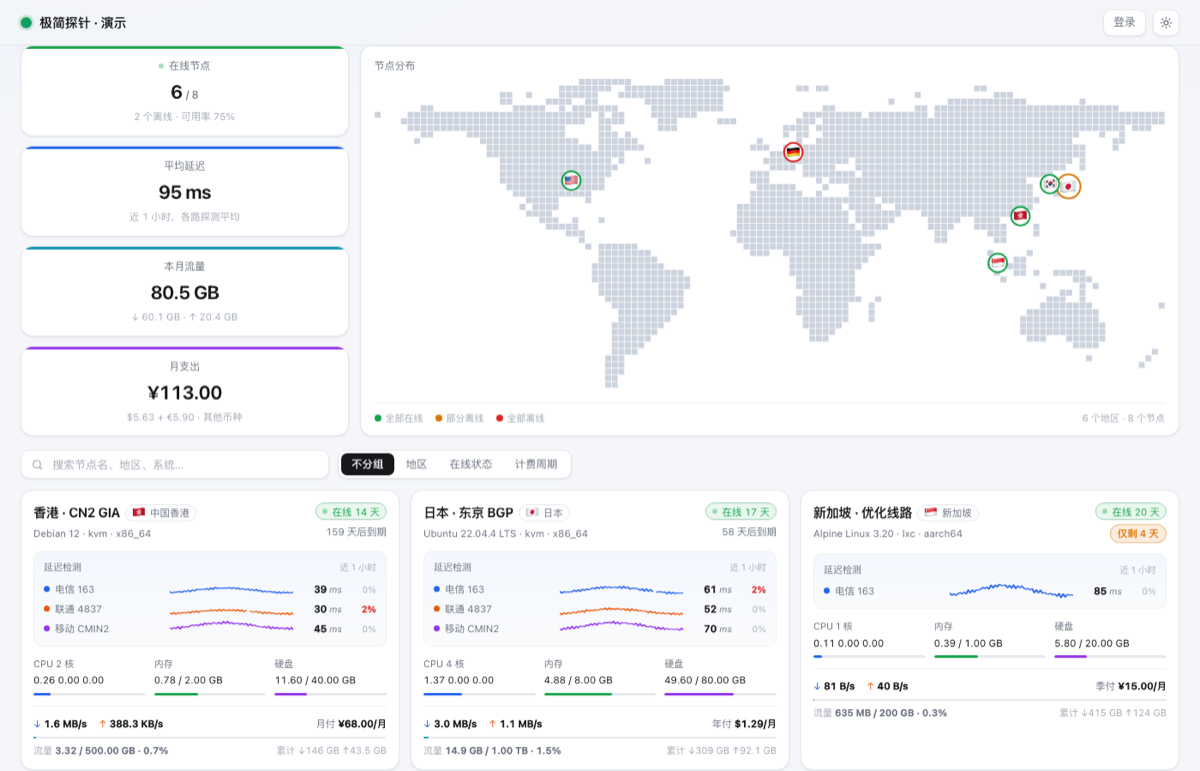
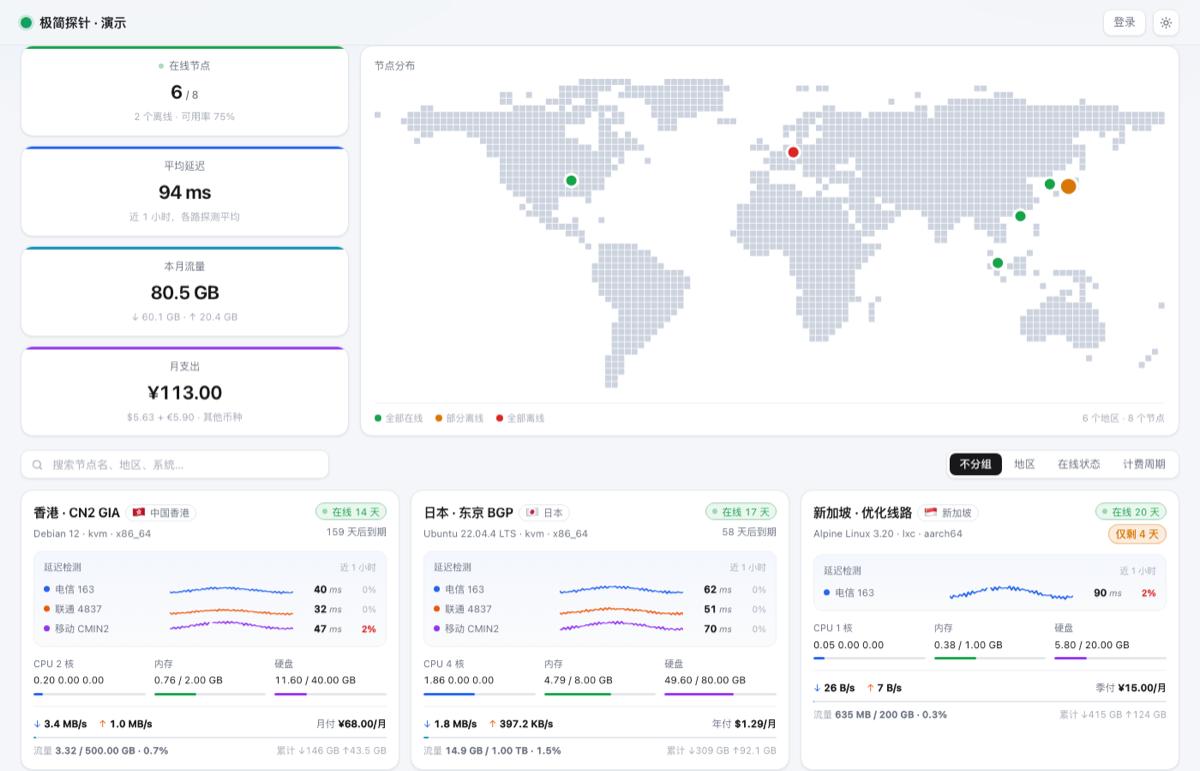
地图亮点改回圆点、去掉筛选提示、工具栏对齐、到期提示分级

diff --git a/minimal/dist/index.html b/minimal/dist/index.html
@@ -109,16 +109,13 @@ main{padding:18px 0 64px}
 .mapwrap{flex:1;display:flex;align-items:center;min-height:150px}
 .worldmap{display:block;width:100%;height:auto;overflow:visible}
 .worldmap .land{fill:var(--map-land)}
-/* 亮点 = 一枚国旗 + 一圈细线；线的颜色表示在线情况，国旗本身不染色，
-   这样「哪国」和「状态」是两条互不相扰的信息。 */
-.mdot{cursor:pointer}
-.mdot .plate{fill:var(--panel);stroke-width:1.6;transition:stroke-width .15s}
-.mdot.t-ok .plate{stroke:var(--ok)}
-.mdot.t-warn .plate{stroke:var(--warn)}
-.mdot.t-bad .plate{stroke:var(--bad)}
-.mdot .flag{text-anchor:middle;dominant-baseline:central;pointer-events:none}
-.mdot:hover .plate,.mdot:focus-visible .plate{stroke-width:3}
-.mdot:focus-visible{outline:none}
+/* 亮点是纯色圆点，颜色即在线情况 */
+.mdot{cursor:pointer;stroke:var(--panel);stroke-width:2.5;transition:stroke-width .15s}
+.mdot.t-ok{fill:var(--ok)}
+.mdot.t-warn{fill:var(--warn)}
+.mdot.t-bad{fill:var(--bad)}
+.mdot:hover,.mdot:focus-visible{stroke-width:4;outline:none}
+.mdot:focus-visible{stroke:var(--fg)}
 .mpop .ph b{display:inline-flex;align-items:center;gap:5px}
 .mapfoot{margin-top:9px;padding-top:9px;border-top:1px solid var(--line-2);font-size:11px;color:var(--faint);
   display:flex;gap:6px 14px;flex-wrap:wrap;align-items:center}
@@ -152,15 +149,18 @@ main{padding:18px 0 64px}
 .search .clr{flex-shrink:0;color:var(--faint);font-size:16px;line-height:1;padding:0 1px}
 .search .clr:hover{color:var(--fg)}
 /* 工具栏里的分组控件与搜索框共用一套：等高、同圆角、同边框与阴影。
-   只作用于 .tools 内部——详情页面板里的 .seg 仍需保持紧凑。 */
-.tools .seg{margin-left:0;flex:0 1 auto;height:34px;padding:3px;border-radius:10px;
+   只作用于 .tools 内部——详情页面板里的 .seg 仍需保持紧凑。
+   margin-left:auto 让分组控件靠右，与左侧搜索框拉开，而不是紧贴其后留一大段空白。 */
+.tools .seg{margin-left:auto;flex:0 1 auto;height:34px;padding:3px;border-radius:10px;
   background:var(--panel);box-shadow:var(--sh-1);flex-wrap:wrap}
 .tools .seg button{font-size:12.5px;padding:0 12px;height:100%;border-radius:7px}
-/* 窄屏下分组控件独占一行、按钮等分，四个按钮不会挤出去。
+/* 窄屏：两者各占一行且**等宽**。搜索框必须去掉 max-width，
+   否则它会停在 360px 而分组控件占满整行，看起来就是「大小不一致」。
    注意 flex-basis 必须带单位——写 flex:1 1 100 是无效声明（只有 0 可省单位），
    整条会被丢弃，窄屏规则就永远不生效。 */
 @media(max-width:560px){
-  .tools .seg{flex:1 1 100%}
+  .tools .search{max-width:none;flex:1 1 100%}
+  .tools .seg{flex:1 1 100%;margin-left:0}
   .tools .seg button{flex:1 1 0;padding:0 6px}
 }
 
@@ -203,9 +203,11 @@ main{padding:18px 0 64px}
 .dot.pulse{animation:pulse 2.4s ease-in-out infinite}
 @keyframes pulse{0%,100%{opacity:1}50%{opacity:.35}}
 .exp{font-size:11.5px;font-variant-numeric:var(--tnum);white-space:nowrap}
-.exp.pill{display:inline-block;padding:1px 8px;border-radius:999px;font-weight:600;border:1px solid}
+/* 胶囊比普通文字大一号、加粗，才压得住卡片右侧的其它信息 */
+.exp.pill{display:inline-block;padding:1.5px 8px;border-radius:999px;font-weight:600;border:1px solid;font-size:12px}
 .exp.pill.bad{color:var(--bad);border-color:color-mix(in srgb,var(--bad) 42%,transparent);background:color-mix(in srgb,var(--bad) 13%,transparent)}
 .exp.pill.warn{color:var(--warn);border-color:color-mix(in srgb,var(--warn) 42%,transparent);background:color-mix(in srgb,var(--warn) 13%,transparent)}
+.exp.pill.soon{color:var(--warn);border-color:color-mix(in srgb,var(--warn) 26%,transparent);background:color-mix(in srgb,var(--warn) 7%,transparent);font-weight:550}
 
 /* ---------- 延迟检测块：每路探测一行，三网就有三行 ---------- */
 .latbox{margin-top:12px;padding:10px 11px 9px;border:1px solid var(--line-2);border-radius:var(--r-sm);
@@ -793,23 +795,24 @@ function countryChip(n){
     (f ? '<i class="fg">' + f + '</i>' : '') + esc(countryName(n.country)) + '</span>';
 }
 /**
- * 到期提示。临期与过期做成带底色的胶囊，而不是一行小字——
- * 这是最容易因为被忽略而真的出事的一条信息。
+ * 到期提示。这是最容易因为被忽略而真的出事的一条信息，所以做成带底色的胶囊，
+ * 而不是一行小字。阈值放到 30 天：只标 7 天的话，半个月后到期在列表里几乎看不见。
  */
+function expiryHTML(d, long){
+  if (d === null) return "";
+  var lv = d < 0 ? "bad" : d <= 7 ? "warn" : d <= 30 ? "soon" : "";
+  var text = d < 0 ? "已过期 " + (-d) + " 天"
+    : d <= 7 ? "仅剩 " + d + " 天"
+    : d + " 天后" + (long ? "到期" : "");
+  return lv ? '<span class="exp pill ' + lv + '">' + text + '</span>'
+    : '<span class="exp muted">' + text + '</span>';
+}
 function expiryText(n){
   var d = daysUntil(n.expires_at);
   if (d === null) return '<span class="exp faint" title="永不到期">' + FOREVER + '</span>';
-  if (d < 0) return '<span class="exp pill bad">已过期 ' + (-d) + ' 天</span>';
-  if (d <= 7) return '<span class="exp pill warn">仅剩 ' + d + ' 天</span>';
-  return '<span class="exp muted">' + d + ' 天后到期</span>';
+  return expiryHTML(d, true);
 }
-function expirySmall(n){
-  var d = daysUntil(n.expires_at);
-  if (d === null) return "";
-  if (d < 0) return '<span class="exp pill bad">已过期 ' + (-d) + ' 天</span>';
-  if (d <= 7) return '<span class="exp pill warn">仅剩 ' + d + ' 天</span>';
-  return '<span class="exp muted">' + d + ' 天后</span>';
-}
+function expirySmall(n){ return expiryHTML(daysUntil(n.expires_at), false); }
 /** 卡片上的占用条：标签、数值、细条各占一行，三列并排也放得下。
  *  `fill` 是该条在正常水位下的颜色（超过 75% / 90% 仍会转成告警色）。 */
 function meter(label, pct, foot, fill){
@@ -1014,7 +1017,7 @@ function regionTone(r){ return r.online === r.total ? "ok" : r.online === 0 ? "b
 
 function mapShellHTML(){
   return '<div class="mapbox" id="mapbox">' +
-    '<div class="maphead"><span>节点分布</span><span class="hint" id="maphint"></span></div>' +
+    '<div class="maphead"><span>节点分布</span></div>' +
     '<div class="mapwrap"><svg class="worldmap" viewBox="0 0 ' + MAP_W + ' ' + MAP_H + '" role="img" aria-label="节点分布世界地图">' +
       '<path class="land" d="' + mapLandPath() + '"/><g class="mdots"></g>' +
     '</svg></div>' +
@@ -1023,23 +1026,19 @@ function mapShellHTML(){
   '</div>';
 }
 /** 只更新亮点与页脚：陆地点阵有 1700 多个子路径，不能跟着每次筛选重建。 */
-function renderMapDots(shown, filtered){
+function renderMapDots(shown){
   var box = document.getElementById("mapbox");
   if (!box) return;
   var g = regionGroups(shown);
-  // 亮点 = 该地区国旗 + 一圈细线表示在线情况（全在线绿 / 部分橙 / 全离线红）
+  // 亮点是纯色圆点：颜色即在线情况。曾试过把地区国旗画上去，太小反而糊成一团。
   var dots = g.regions.map(function(r){
-    var rad = 8.5 + Math.min(r.total - 1, 3) * 1.2;
+    var rad = 6 + Math.min(r.total - 1, 3) * 1.1;
     var tip = r.label + " · " + r.total + " 个节点" + (r.online < r.total ? "，离线 " + (r.total - r.online) : "");
-    return '<g class="mdot t-' + regionTone(r) + '" data-act="dot" data-cc="' + r.cc + '" transform="translate(' +
-      mapX(r.lon).toFixed(1) + ',' + mapY(r.lat).toFixed(1) + ')" tabindex="0" role="button" aria-label="' + esc(tip) + '">' +
-      '<title>' + esc(tip) + '</title>' +
-      '<circle class="plate" r="' + rad.toFixed(1) + '"/>' +
-      '<text class="flag" font-size="' + (rad * 1.25).toFixed(1) + '">' + esc(r.flag || r.cc) + '</text>' +
-    '</g>';
+    return '<circle class="mdot t-' + regionTone(r) + '" data-act="dot" data-cc="' + r.cc + '" cx="' + mapX(r.lon).toFixed(1) +
+      '" cy="' + mapY(r.lat).toFixed(1) + '" r="' + rad.toFixed(1) + '" tabindex="0" role="button" ' +
+      'aria-label="' + esc(tip) + '"><title>' + esc(tip) + '</title></circle>';
   }).join("");
   box.querySelector(".mdots").innerHTML = dots;
-  document.getElementById("maphint").textContent = filtered ? "已按当前筛选" : "";
   document.getElementById("mapfoot").innerHTML =
     '<span class="lg o"><i></i>全部在线</span>' +
     '<span class="lg w"><i></i>部分离线</span>' +
@@ -1219,7 +1218,7 @@ function renderListBody(){
 
   var sum = document.getElementById("summary");
   if (sum) sum.innerHTML = tilesHTML(sorted);
-  renderMapDots(shown, !!list.q || list.group !== "none");
+  renderMapDots(shown);
 }
 
 /* ---------------- 详情页 ---------------- */

diff --git a/README.md b/README.md
@@ -17,11 +17,10 @@ monitor 探针的公开状态页主题。纯静态 SPA，**零依赖、零构建
 ┌──────────────────┬────────────────────────────────────┐
 │   在线节点 6/8   │                                    │
 │   平均延迟 94ms  │         世界地图（点阵）            │
-│  本月流量 80 GB  │  🇺🇸  🇭🇰  🇯🇵  🇸🇬  🇦🇺  🇩🇪         │
-│   月支出 ¥113    │  细线圈颜色即在线情况               │
+│  本月流量 80 GB  │   ● 全在线  ● 部分离线  ● 全离线     │
+│   月支出 ¥113    │   6 个地区 · 8 个节点               │
 ├──────────────────┴────────────────────────────────────┤
-│ [搜索节点名、地区、系统…]                                │
-│ [不分组│地区│在线状态│计费周期]                          │
+│ [搜索节点名、地区、系统…]        [不分组│地区│在线状态│计费周期] │
 ├───────────────────────────────────────────────────────┤
 │ 🇯🇵 日本  3                                             │
 │  [卡片]  [卡片]  [卡片]                                 │
@@ -30,21 +29,27 @@ monitor 探针的公开状态页主题。纯静态 SPA，**零依赖、零构建
 └───────────────────────────────────────────────────────┘
 ```
 
-窄屏（≤560px）下搜索框与分组控件各占一行，分组按钮等分整行宽度。
+工具栏一行放下时，搜索框靠左、分组控件**靠右**（`margin-left:auto`）。
+窄屏（≤560px）下两者各占一行且**等宽**——搜索框必须去掉 `max-width`，
+否则它会停在 360px 而分组控件占满整行，看起来就是「一大一小」。
 
 ## 国旗与到期提示
 
 **国旗**由 ISO 3166-1 alpha-2 码现算，不维护映射表：两个区域指示符字符拼起来就是区旗
-（`HK` → `🇭🇰`）。出现的位置：卡片与详情页的地区徽标、分组标题、地图亮点、地图弹窗标题。
+（`HK` → `🇭🇰`）。出现的位置：卡片与详情页的地区徽标、分组标题、地图弹窗标题。
 **Windows 字体不渲染国旗 emoji**，会退化成两个字母，仍可读。
 
-**到期提示**做成分级的胶囊徽标，而不是一行小字——这是最容易因为被忽略而真的出事的一条信息：
+> 地图亮点**不用国旗**——试过，缩到那个尺寸国旗糊成一团反而更差。亮点保持纯色圆点，颜色即在线情况。
+
+**到期提示**做成分级的胶囊徽标，而不是一行小字——这是最容易因为被忽略而真的出事的一条信息。
+阈值放到 30 天：只标 7 天的话，半个月后到期在列表里几乎看不见。
 
 | 剩余 | 呈现 |
 | --- | --- |
 | 已过期 | 红色胶囊「已过期 N 天」 |
 | ≤ 7 天 | 橙色胶囊「仅剩 N 天」 |
-| > 7 天 | 灰色文字「N 天后到期」 |
+| 8–30 天 | 浅橙胶囊「N 天后到期」 |
+| > 30 天 | 灰色文字「N 天后到期」 |
 | 无到期日 | `∞` |
 
 ## 世界地图
@@ -58,15 +63,13 @@ monitor 探针的公开状态页主题。纯静态 SPA，**零依赖、零构建
 | 交互 | 行为 |
 | --- | --- |
 | 亮点含义 | 一个亮点 = 一个地区（按 `country` 合并） |
-| 亮点外观 | 该地区的**国旗**，外加一圈细线 |
-| 细线颜色 | 全部在线 **绿** / 部分离线 **橙** / 全部离线 **红** |
-| 亮点大小 | 半径 8.5px 起，随节点数小幅增大，最多 12px |
+| 亮点外观 | 纯色圆点，颜色即在线情况 |
+| 颜色 | 全部在线 **绿** / 部分离线 **橙** / 全部离线 **红** |
+| 亮点大小 | 半径 6px 起，随节点数小幅增大，最多 10px |
 | 悬停 | 原生提示「地区 · N 个节点，离线 M」 |
 | 点击亮点 | 在亮点旁弹出该地区的节点列表；**再点同一个亮点关闭**，点别处也关闭 |
 | 点击弹窗内的节点 | 进入该节点详情页 |
 | 键盘 | Tab 可聚焦亮点，Enter / Space 打开弹窗 |
-
-国旗与状态是两条互不相扰的信息：**国旗本身不染色**，状态只由那圈细线表达。
 
 **状态与边界**
 
@@ -184,7 +187,7 @@ monitor 探针的公开状态页主题。纯静态 SPA，**零依赖、零构建
 │   └── dist/index.html       # 主题本体，唯一必需文件
 ├── dev/
 │   ├── mock-server.mjs       # 本地预览用的假 hub
-│   ├── test.mjs              # 纯函数自测，213 项
+│   ├── test.mjs              # 纯函数自测，221 项
 │   └── package.mjs           # 打包 + 契约校验
 ├── .github/workflows/        # ci.yml 与 release.yml
 ├── LICENSE
@@ -234,7 +237,7 @@ node dev/test.mjs        # 纯函数自测，失败退出码非零
 node dev/package.mjs     # 校验 theme.json / 目录名 / 体积上限，然后打包
 ```
 
-`dev/test.mjs` 的做法是给主题脚本喂一个最小 DOM 桩后整体求值，因此不需要测试框架，也不需要把函数拆成模块——脚本顶层声明在 vm 里会挂到全局对象上，直接取来调用即可。覆盖：数字格式化与时长换算的边界（0、负数、小数、NaN、缺字段）、费用折算与多币种分组、延迟样本分组与迷你曲线、削峰 / 平滑 / 单路隔离的曲线处理、地区合并与配色、搜索匹配与分组、国旗拼装、坏数据降级、地区码与坐标轴取整。
+`dev/test.mjs` 的做法是给主题脚本喂一个最小 DOM 桩后整体求值，因此不需要测试框架，也不需要把函数拆成模块——脚本顶层声明在 vm 里会挂到全局对象上，直接取来调用即可。覆盖：数字格式化与时长换算的边界（0、负数、小数、NaN、缺字段）、费用折算与多币种分组、延迟样本分组与迷你曲线、削峰 / 平滑 / 单路隔离的曲线处理、地区合并与配色、搜索匹配与分组、国旗拼装与到期分级、坏数据降级、地区码与坐标轴取整。
 
 ## 接口契约
 
